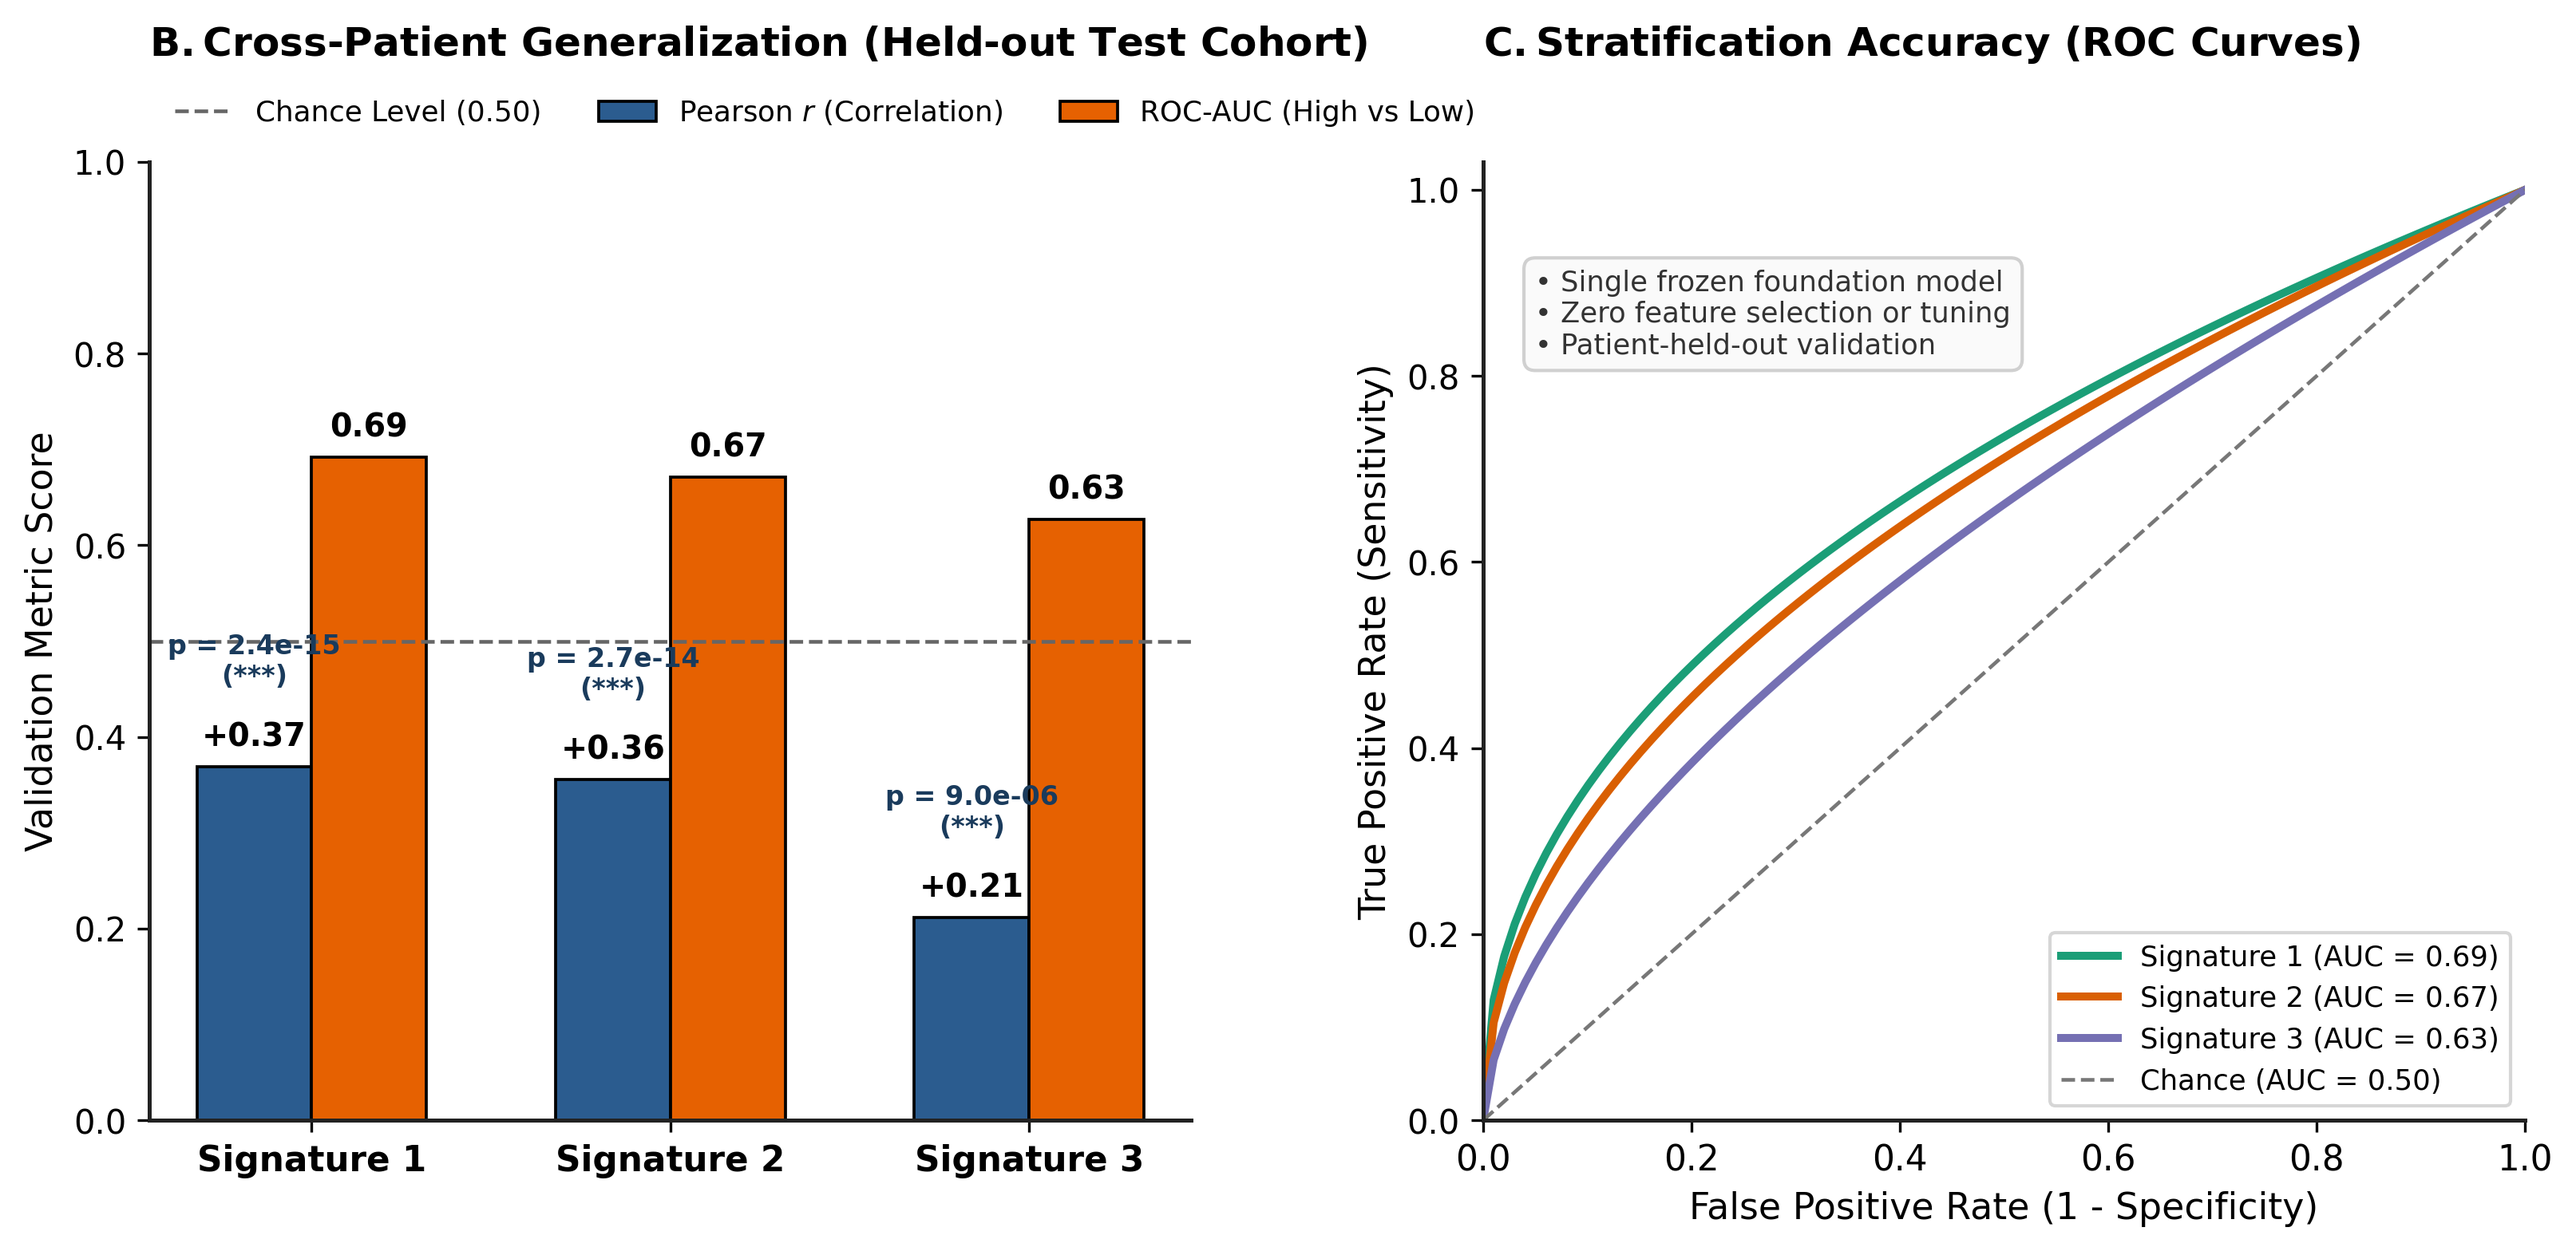
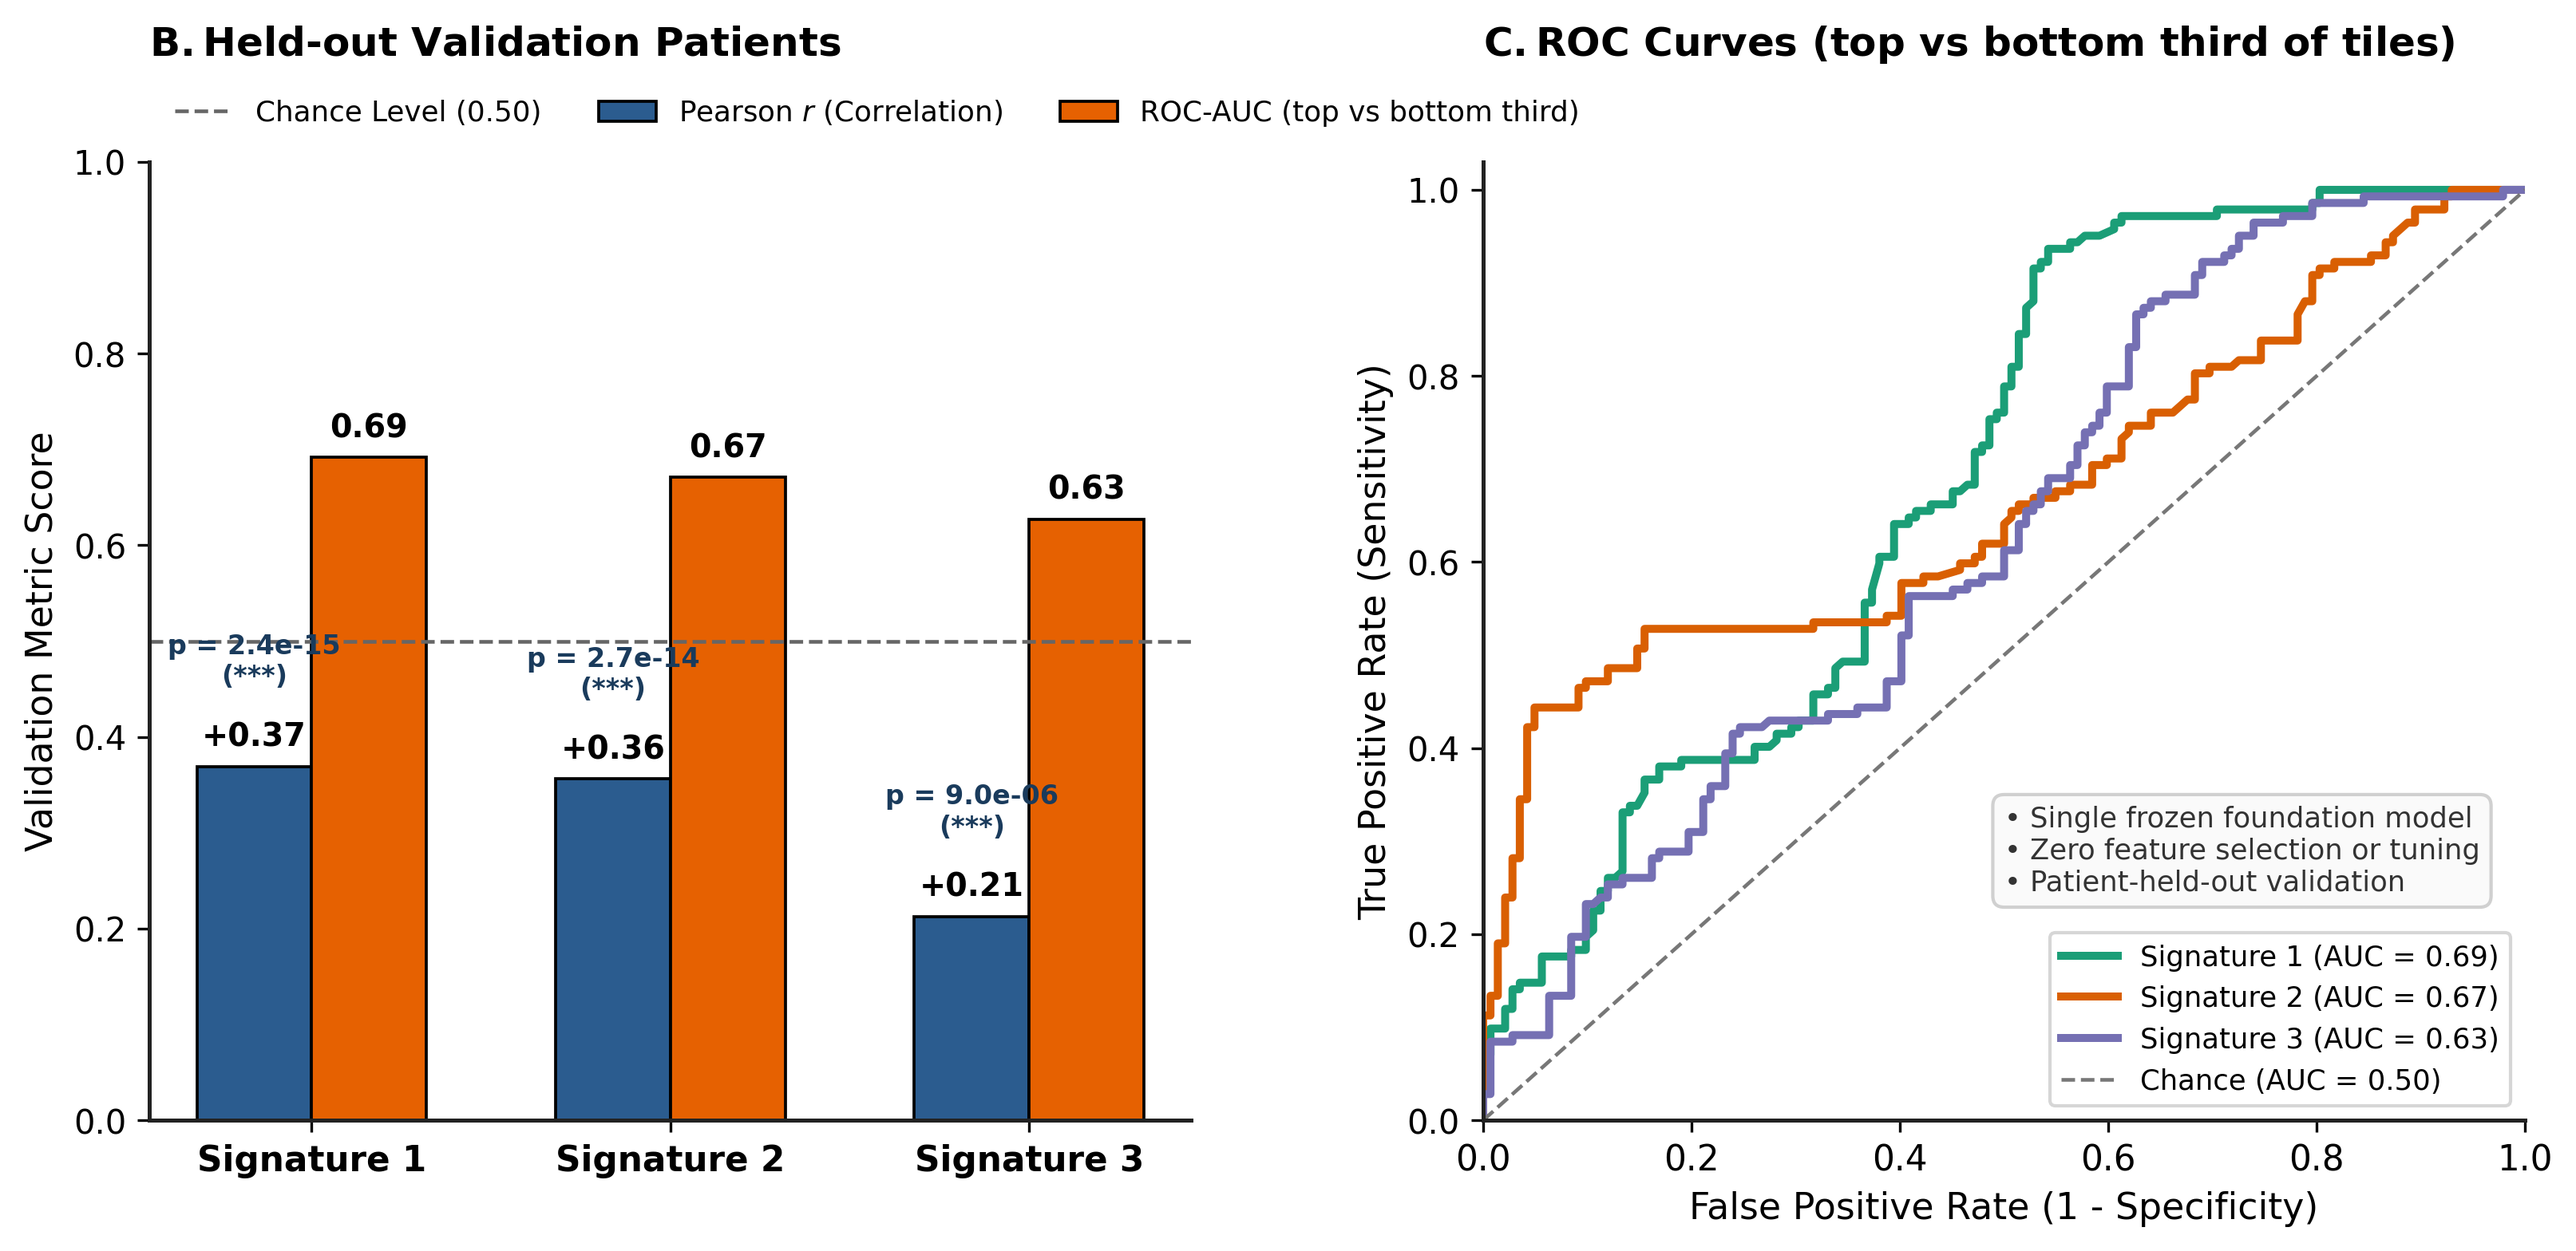
fix(plots): read phase 1 results from results/phase1 and remove silent fallbacks
The figure script raised no error when its inputs were missing and drew hardcoded metrics and formula-generated ROC curves. It now fails on a missing input. Panel B is titled as validation patients and the AUC definition is on the labels.

Changed region(s): [[0.5578, 0.125, 0.9916, 0.8438], [0.062, 0.0, 0.9606, 0.0938], [0.7747, 0.625, 0.9606, 0.7188]]

diff --git a/plots/phase1/phase1_grant_results.py b/plots/phase1/phase1_grant_results.py
@@ -1,4 +1,4 @@
-"""figure_pipeline/analytical_figs/phase1_results.py"""
+"""plots/phase1/phase1_grant_results.py"""
 from pathlib import Path
 import matplotlib.pyplot as plt
 import numpy as np
@@ -21,18 +21,16 @@ plt.rcParams.update({
 })
 
 output_dir = Path(PLOTS / "phase1")
-metrics_csv = RESULTS / "mlp_phase1" / "validation_metrics_summary.csv"
-preds_csv = RESULTS / "mlp_phase1" / "validation_predictions.csv"
+metrics_csv = RESULTS / "phase1" / "validation_metrics_summary.csv"
+preds_csv = RESULTS / "phase1" / "validation_predictions.csv"
 
-# 1. Load metrics summary
-if metrics_csv.exists():
-    summary_df = pd.read_csv(metrics_csv)
-else:
-    summary_df = pd.DataFrame([
-        {"target": "WNT_signature_score_cohort_z", "pearson_r": 0.369, "pearson_p_value": 2.4e-15, "high_vs_low_auc": 0.692},
-        {"target": "YAP_signature_score_cohort_z", "pearson_r": 0.356, "pearson_p_value": 2.7e-14, "high_vs_low_auc": 0.671},
-        {"target": "Cell_cycle_signature_score_cohort_z", "pearson_r": 0.212, "pearson_p_value": 9.0e-06, "high_vs_low_auc": 0.627},
-    ])
+# 1. Load metrics summary and predictions (no fallback: a missing input is an error)
+for required in (metrics_csv, preds_csv):
+    if not required.exists():
+        raise FileNotFoundError(f"{required} not found. Run scripts/model_train/phase1/train_phase1.py first.")
+
+summary_df = pd.read_csv(metrics_csv)
+preds_df = pd.read_csv(preds_csv)
 
 top_targets = ["WNT", "YAP", "Cell_cycle"]
 filtered_metrics = []
@@ -58,14 +56,14 @@ p_vals = plot_df["pearson_p_value"].values
 
 rects1 = ax1.bar(x - width/2, pearson_vals, width, label="Pearson $r$ (Correlation)", 
                  color="#2b5c8f", edgecolor="black", linewidth=0.9)
-rects2 = ax1.bar(x + width/2, auc_vals, width, label="ROC-AUC (High vs Low)", 
+rects2 = ax1.bar(x + width/2, auc_vals, width, label="ROC-AUC (top vs bottom third)", 
                  color="#e66101", edgecolor="black", linewidth=0.9)
 
 ax1.axhline(0.5, color="#666666", linestyle="--", linewidth=1.1, label="Chance Level (0.50)")
 ax1.set_ylabel("Validation Metric Score")
 
 # Pad=32 elevates both titles equally so they align along the same baseline
-ax1.set_title(r"$\mathbf{B.}$" +   "Cross-Patient Generalization (Held-out Test Cohort)", weight="bold", loc="left", pad=32)
+ax1.set_title(r"$\mathbf{B.}$" +   "Held-out Validation Patients", weight="bold", loc="left", pad=32)
 ax1.set_xticks(x)
 ax1.set_xticklabels(plot_df["display_name"], weight="bold")
 ax1.set_ylim(0, 1.0)
@@ -91,40 +89,32 @@ for rect in rects2:
 # ==============================================================
 colors = ["#1b9e77", "#d95f02", "#7570b3"]
 
-if preds_csv.exists():
-    preds_df = pd.read_csv(preds_csv)
-    for idx, (_, row) in enumerate(plot_df.iterrows()):
-        sub = preds_df[preds_df["target"] == row["target"]]
-        y_true = sub["y_true"].values
-        y_pred = sub["mu_pred"].values
+for idx, (_, row) in enumerate(plot_df.iterrows()):
+    sub = preds_df[preds_df["target"] == row["target"]]
+    y_true = sub["y_true"].values
+    y_pred = sub["mu_pred"].values
 
-        q_low, q_high = np.quantile(y_true, [0.33, 0.67])
-        mask = (y_true <= q_low) | (y_true >= q_high)
-        y_binary = (y_true[mask] >= q_high).astype(int)
-        scores = y_pred[mask]
+    # high-vs-low AUC: top third vs bottom third by true score, middle third excluded
+    q_low, q_high = np.quantile(y_true, [0.33, 0.67])
+    mask = (y_true <= q_low) | (y_true >= q_high)
+    y_binary = (y_true[mask] >= q_high).astype(int)
+    scores = y_pred[mask]
 
-        fpr, tpr, _ = roc_curve(y_binary, scores)
-        auc_val = roc_auc_score(y_binary, scores)
-        ax2.plot(fpr, tpr, color=colors[idx], lw=2.4, label=f"{row['display_name']} (AUC = {auc_val:.2f})")
-else:
-    for idx, (_, row) in enumerate(plot_df.iterrows()):
-        auc_val = row["high_vs_low_auc"]
-        fpr = np.linspace(0, 1, 100)
-        power = (1 - auc_val) / auc_val
-        tpr = fpr ** power
-        ax2.plot(fpr, tpr, color=colors[idx], lw=2.4, label=f"{row['display_name']} (AUC = {auc_val:.2f})")
+    fpr, tpr, _ = roc_curve(y_binary, scores)
+    auc_val = roc_auc_score(y_binary, scores)
+    ax2.plot(fpr, tpr, color=colors[idx], lw=2.4, label=f"{row['display_name']} (AUC = {auc_val:.2f})")
 
 ax2.plot([0, 1], [0, 1], color="#777777", linestyle="--", lw=1.1, label="Chance (AUC = 0.50)")
 ax2.set_xlabel("False Positive Rate (1 - Specificity)")
 ax2.set_ylabel("True Positive Rate (Sensitivity)")
 
 # Matches ax1 pad=32 so both titles align at the exact same vertical baseline
-ax2.set_title(r"$\mathbf{C.}$" +   "Stratification Accuracy (ROC Curves)", weight="bold", loc="left", pad=32)
+ax2.set_title(r"$\mathbf{C.}$" +   "ROC Curves (top vs bottom third of tiles)", weight="bold", loc="left", pad=32)
 ax2.set_xlim([0.0, 1.0])
 ax2.set_ylim([0.0, 1.03])
 ax2.legend(frameon=True, facecolor="white", edgecolor="#cccccc", loc="lower right")
 
-ax2.text(0.05, 0.80, "• Single frozen foundation model\n• Zero feature selection or tuning\n• Patient-held-out validation",
+ax2.text(0.50, 0.24, "• Single frozen foundation model\n• Zero feature selection or tuning\n• Patient-held-out validation",
          transform=ax2.transAxes, fontsize=8.5, color="#333333",
          bbox=dict(boxstyle="round,pad=0.4", fc="#fafafa", ec="#d0d0d0", lw=1.0))
 
